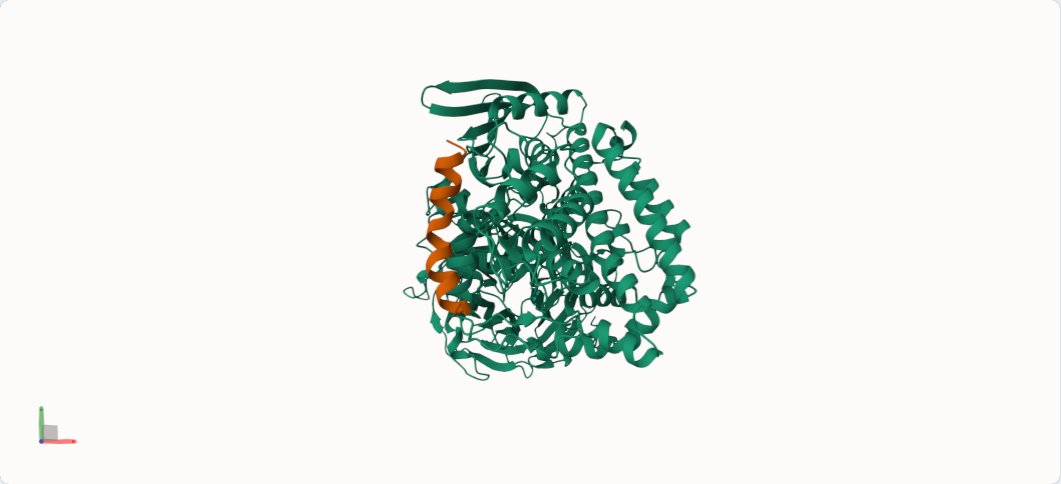
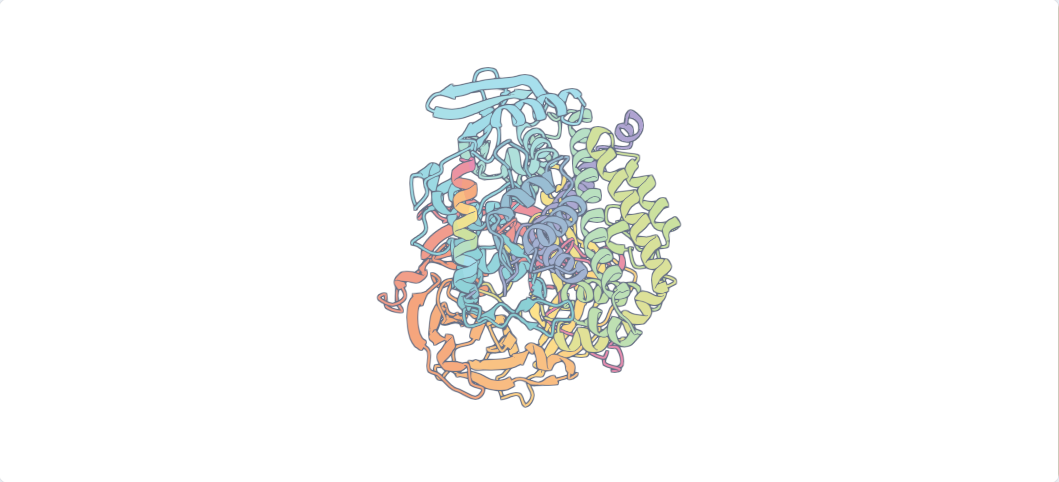
fix(structure): restore evidence access and Baker rendering

Changed region(s): [[0.3428, 0.1245, 0.6544, 0.8402], [0.9972, 0.0, 1.0, 0.9959], [0.0312, 0.8402, 0.0935, 0.9336]]

diff --git a/src/App.tsx b/src/App.tsx
@@ -55,6 +55,7 @@ import type {
 
 const nodeTypes = { stage: WorkflowNode, lane: LaneLabel }
 const connectionStorageKey = 'ampgent.data-service.base.v1'
+const selectedRunStorageKey = 'ampgent.observer.selected-run.v1'
 const defaultApiBase = import.meta.env.VITE_API_BASE ?? ''
 
 function normalizeApiBase(value: string) {
@@ -146,7 +147,7 @@ function readableDataError(cause: unknown, fallback: string) {
 
 function useRunData(enabled: boolean, apiBase: string) {
   const [runs, setRuns] = useState<RunListItem[]>([])
-  const [selectedId, setSelectedId] = useState<string | null>(null)
+  const [selectedId, setSelectedIdState] = useState<string | null>(() => window.localStorage.getItem(selectedRunStorageKey))
   const [detail, setDetail] = useState<RunDetail | null>(null)
   const [error, setError] = useState<string | null>(null)
   const [loading, setLoading] = useState(true)
@@ -157,7 +158,11 @@ function useRunData(enabled: boolean, apiBase: string) {
     if (!response.ok) throw new Error(`轮次列表读取失败：${response.status}`)
     const payload = await response.json() as RunListResponse
     setRuns(payload.runs)
-    setSelectedId((current) => current ?? payload.runs[0]?.id ?? null)
+    setSelectedIdState((current) => {
+      const next = current && payload.runs.some((run) => run.id === current) ? current : payload.runs[0]?.id ?? null
+      if (next) window.localStorage.setItem(selectedRunStorageKey, next)
+      return next
+    })
   }, [apiBase])
 
   const loadDetail = useCallback(async (runId: string, quiet = false) => {
@@ -210,6 +215,11 @@ function useRunData(enabled: boolean, apiBase: string) {
     }
   }, [loadDetail, loadRuns, selectedId])
 
+  const setSelectedId = useCallback((runId: string) => {
+    window.localStorage.setItem(selectedRunStorageKey, runId)
+    setSelectedIdState(runId)
+  }, [])
+
   return { runs, selectedId, setSelectedId, detail, error, loading, refreshing, retry, refresh: () => selectedId && loadDetail(selectedId, true) }
 }
 
@@ -236,15 +246,19 @@ function RunList({ runs, selectedId, onSelect }: { runs: RunListItem[]; selected
 function Sidebar({
   runs,
   selectedId,
+  structureRun,
   activeView,
   onView,
   onSelect,
+  onOpenStructureEvidence,
 }: {
   runs: RunListItem[]
   selectedId: string | null
+  structureRun: RunListItem | null
   activeView: 'overview' | 'analysis' | 'evidence'
   onView: (view: 'overview' | 'analysis' | 'evidence') => void
   onSelect: (id: string) => void
+  onOpenStructureEvidence: () => void
 }) {
   return (
     <aside className="sidebar">
@@ -259,7 +273,15 @@ function Sidebar({
       <div className="sidebar-sections">
         <button><span><SparkIcon icon="sequence" /></span><b>序列设计</b><small>生成模型与十一项指标</small></button>
         <button><span><GitBranch /></span><b>多靶点</b><small>原位与错误口袋对照</small></button>
-        <button title="Boltz 2预测复合物构象；Rosetta进行界面精修与评分。"><span><Atom /></span><b>结构证据</b><small>Boltz 2 与 Rosetta</small></button>
+        <button
+          className={`structure-evidence-link${structureRun?.id === selectedId && activeView === 'overview' ? ' active' : ''}`}
+          title="Boltz 2预测复合物构象；Rosetta进行界面精修与评分。"
+          disabled={!structureRun}
+          onClick={onOpenStructureEvidence}
+        >
+          <span><Atom /></span><b>结构证据</b>
+          <small>{structureRun ? `最近轮次 · ${structureRun.structure_record_count.toLocaleString()} 条记录` : '数据库中尚无结构记录'}</small>
+        </button>
         <button><span><ShieldCheck /></span><b>科学评审</b><small>证据来源追踪</small></button>
       </div>
     </aside>
@@ -744,12 +766,13 @@ export default function App() {
   const [activeView, setActiveView] = useState<'overview' | 'analysis' | 'evidence'>('analysis')
   const [apiBase, setApiBase] = useState(readApiBase)
   const [connectionOpen, setConnectionOpen] = useState(false)
-  const data = useRunData(activeView === 'overview', apiBase)
+  const data = useRunData(true, apiBase)
   const [selectedStage, setSelectedStage] = useState<string | null>(null)
   const [selectedEdge, setSelectedEdge] = useState<GraphEdgeDetail | null>(null)
   const [selectionMode, setSelectionMode] = useState(false)
   const [analysisSelection, setAnalysisSelection] = useState<string[]>([])
   const [analysisSnapshot, setAnalysisSnapshot] = useState<AnalysisSnapshot | null>(null)
+  const structureRun = useMemo(() => data.runs.find((run) => run.structure_record_count > 0) ?? null, [data.runs])
   useEffect(() => {
     let cancelled = false
     const liveAnalyticsEnabled = import.meta.env.VITE_ANALYTICS_API_ENABLED === 'true'
@@ -769,9 +792,19 @@ export default function App() {
         <Sidebar
           runs={data.runs}
           selectedId={data.selectedId}
+          structureRun={structureRun}
           activeView={activeView}
           onView={(view) => { setActiveView(view); setSelectedStage(null); setSelectedEdge(null) }}
           onSelect={(id) => { data.setSelectedId(id); setSelectedStage(null); setSelectedEdge(null); setAnalysisSelection([]); setSelectionMode(false) }}
+          onOpenStructureEvidence={() => {
+            if (!structureRun) return
+            data.setSelectedId(structureRun.id)
+            setActiveView('overview')
+            setSelectedStage('boltz')
+            setSelectedEdge(null)
+            setAnalysisSelection([])
+            setSelectionMode(false)
+          }}
         />
         {activeView === 'analysis' ? (
           <AnalysisDashboard detail={data.detail} seedNodeIds={analysisSelection} apiBase={apiBase} />

diff --git a/src/MoleculeViewer.tsx b/src/MoleculeViewer.tsx
@@ -1,5 +1,6 @@
 import { useEffect, useRef, useState } from 'react'
 import 'molstar/lib/mol-plugin-ui/skin/light.scss'
+import { Color } from 'molstar/lib/mol-util/color/index'
 import type { ViewerArtifact } from './types'
 
 interface Props {
@@ -7,7 +8,7 @@ interface Props {
   compact?: boolean
   autoRotate?: boolean
   representation?: 'cartoon' | 'atomic' | 'surface'
-  colorTheme?: 'chain-id' | 'hydrophobicity' | 'element-symbol'
+  colorTheme?: 'baker-spectrum' | 'chain-id' | 'hydrophobicity' | 'element-symbol'
 }
 
 const representationPresets = {
@@ -16,7 +17,12 @@ const representationPresets = {
   surface: 'molecular-surface',
 } as const
 
-export function MoleculeViewer({ artifact, compact = false, autoRotate = false, representation = 'cartoon', colorTheme = 'chain-id' }: Props) {
+const bakerSpectrum = {
+  kind: 'interpolate' as const,
+  colors: [0xb0a3d1, 0x8bd0d5, 0xa8e0ee, 0xc5e1a3, 0xffe38b, 0xf5a37d, 0xe88db2].map(Color),
+}
+
+export function MoleculeViewer({ artifact, compact = false, autoRotate = false, representation = 'cartoon', colorTheme = 'baker-spectrum' }: Props) {
   const host = useRef<HTMLDivElement>(null)
   // Mol* is intentionally loaded only when the structure inspector is opened.
   const pluginRef = useRef<any>(null)
@@ -24,6 +30,11 @@ export function MoleculeViewer({ artifact, compact = false, autoRotate = false, 
   const [state, setState] = useState<'idle' | 'loading' | 'ready' | 'error'>('idle')
 
   useEffect(() => {
+    if (!artifact) {
+      setPluginReady(false)
+      setState('idle')
+      return
+    }
     if (!host.current || pluginRef.current) return
     const target = host.current
     let disposed = false
@@ -52,6 +63,29 @@ export function MoleculeViewer({ artifact, compact = false, autoRotate = false, 
         return
       }
       pluginRef.current = plugin
+      plugin.canvas3d?.setProps({
+        camera: { mode: 'orthographic', helper: { axes: { name: 'off', params: {} } } },
+        cameraFog: { name: 'off', params: {} },
+        renderer: {
+          backgroundColor: Color(0xffffff),
+          ambientColor: Color(0xffffff),
+          ambientIntensity: 1,
+          light: [],
+          exposure: 1,
+          celSteps: 0,
+        },
+        postprocessing: {
+          enabled: true,
+          occlusion: { name: 'off', params: {} },
+          shadow: { name: 'off', params: {} },
+          outline: { name: 'on', params: { scale: 1, threshold: 0.1, color: Color(0x667085), includeTransparent: true } },
+          dof: { name: 'off', params: {} },
+          antialiasing: { name: 'smaa', params: { edgeThreshold: 0.1, maxSearchSteps: 32 } },
+          sharpening: { name: 'off', params: {} },
+          bloom: { name: 'off', params: {} },
+        },
+        illumination: { enabled: false, shadowEnable: false },
+      })
       setPluginReady(true)
     })
     return () => {
@@ -59,7 +93,7 @@ export function MoleculeViewer({ artifact, compact = false, autoRotate = false, 
       pluginRef.current?.dispose()
       pluginRef.current = null
     }
-  }, [])
+  }, [!!artifact])
 
   useEffect(() => {
     const plugin = pluginRef.current
@@ -78,11 +112,16 @@ export function MoleculeViewer({ artifact, compact = false, autoRotate = false, 
         )
         const format = artifact.media_type.includes('cif') ? 'mmcif' : 'pdb'
         const trajectory = await plugin.builders.structure.parseTrajectory(data, format)
+        const resolvedColorTheme = colorTheme === 'baker-spectrum' ? 'sequence-id' : colorTheme
         await plugin.builders.structure.hierarchy.applyPreset(trajectory, 'default', {
           representationPreset: representationPresets[representation],
           representationPresetParams: {
-            theme: { globalName: colorTheme },
-            quality: 'auto',
+            theme: {
+              globalName: resolvedColorTheme,
+              globalColorParams: colorTheme === 'baker-spectrum' ? { list: bakerSpectrum } : undefined,
+            },
+            quality: compact ? 'medium' : 'high',
+            ignoreLight: true,
           },
         })
         if (!cancelled) setState('ready')
@@ -97,7 +136,7 @@ export function MoleculeViewer({ artifact, compact = false, autoRotate = false, 
     return () => {
       cancelled = true
     }
-  }, [artifact, colorTheme, pluginReady, representation])
+  }, [artifact?.artifact_url, artifact?.media_type, colorTheme, pluginReady, representation])
 
   useEffect(() => {
     const plugin = pluginRef.current
@@ -114,8 +153,8 @@ export function MoleculeViewer({ artifact, compact = false, autoRotate = false, 
       {artifact && state === 'loading' && <div className="viewer-state">正在验证并载入结构…</div>}
       {artifact && state === 'error' && <div className="viewer-state viewer-error">结构载入失败</div>}
       {artifact && state === 'ready' && !compact && (
-        <div className="viewer-tag" title="Mol*是用于交互审视生物大分子三维结构的可视化工具。">
-          <span className="live-dot" /> Mol* · {artifact.lane === 'native' ? '原位' : '错误口袋对照'} · 随机种子 {artifact.seed}
+        <div className="viewer-tag" title="Baker 风格按残基序号使用七色渐变，并关闭高光、雾化和阴影。">
+          <span className="live-dot" /> Mol* · Baker 序列谱 · {artifact.lane === 'native' ? '原位' : '错误口袋对照'} · 随机种子 {artifact.seed}
         </div>
       )}
     </div>

diff --git a/src/styles.css b/src/styles.css
@@ -106,6 +106,11 @@ button:focus-visible { outline: 2px solid #315be8; outline-offset: 2px; }
 .sidebar-sections svg { width: 19px; }
 .sidebar-sections b { align-self: end; font-size: 13px; font-weight: 650; }
 .sidebar-sections small { align-self: start; color: #949cad; font-size: 10px; margin-top: 3px; }
+.sidebar-sections button.structure-evidence-link { border-radius: 10px; cursor: pointer; }
+.sidebar-sections button.structure-evidence-link:hover { background: #f0f3f8; }
+.sidebar-sections button.structure-evidence-link.active { color: #244f9e; background: #eaf0fb; }
+.sidebar-sections button.structure-evidence-link.active > span { color: #315fbd; background: #f7faff; }
+.sidebar-sections button.structure-evidence-link:disabled { opacity: .55; cursor: not-allowed; }
 
 .main-canvas { flex: 1; min-width: 0; position: relative; display: flex; flex-direction: column; background: #fff; }
 .canvas-header { height: 148px; flex: 0 0 148px; padding: 30px 46px 20px; display: flex; justify-content: space-between; align-items: flex-start; position: relative; z-index: 3; }
@@ -198,7 +203,7 @@ button:focus-visible { outline: 2px solid #315be8; outline-offset: 2px; }
 .progress-track i { display: block; height: 100%; background: #202630; border-radius: inherit; }
 .node-running .progress-track i { background: #1ca9c5; }
 .node-stopped .progress-track i { background: #a6adba; }
-.mini-molstar-shell { height: 94px; margin-top: 9px; border-radius: 8px; border-color: #e1e6ee; background: radial-gradient(circle at 50% 45%, #f7faf9, #eef3f4 78%); pointer-events: none; }
+.mini-molstar-shell { height: 94px; margin-top: 9px; border-radius: 8px; border-color: #e1e6ee; background: #fff; pointer-events: none; }
 .mini-molstar-shell .msp-viewport-controls, .mini-molstar-shell .msp-logo, .mini-molstar-shell .msp-toast-container { display: none !important; }
 .mini-molstar-shell .viewer-state, .mini-molstar-shell .viewer-empty { font-size: 8px; color: #8b95a5; }
 .kind-structure .node-facts { min-height: 42px; padding-top: 7px; }
@@ -311,12 +316,12 @@ button:focus-visible { outline: 2px solid #315be8; outline-offset: 2px; }
 .inference-note { margin: 12px 0 0; padding: 10px 11px; display: flex; gap: 8px; color: #786e8e; background: #f6f4f9; border-radius: 7px; font-size: 10px; line-height: 1.55; }
 .inference-note svg { width: 14px; flex: 0 0 auto; }
 .viewer-section { padding: 15px; border-bottom: 1px solid #e8ebf0; }
-.molstar-shell { height: 290px; border-radius: 11px; overflow: hidden; background: radial-gradient(circle at 50% 42%, #15223e, #0b1020 70%); position: relative; border: 1px solid #dce1e9; }
+.molstar-shell { height: 290px; border-radius: 11px; overflow: hidden; background: #fff; position: relative; border: 1px solid #dce1e9; }
 .molstar-host { position: absolute; inset: 0; }
 .molstar-host .msp-plugin { position: absolute !important; inset: 0 !important; }
-.viewer-empty, .viewer-state { position: absolute; inset: 0; display: grid; place-items: center; color: #aab6cc; font-size: 10px; pointer-events: none; }
-.viewer-error { color: #ef9aa5; }
-.viewer-tag { position: absolute; top: 10px; left: 10px; height: 24px; display: flex; align-items: center; gap: 7px; color: #dce7fb; background: rgba(9,15,29,.72); border: 1px solid rgba(186,202,228,.18); border-radius: 6px; padding: 0 8px; font-size: 8px; backdrop-filter: blur(8px); pointer-events: none; }
+.viewer-empty, .viewer-state { position: absolute; inset: 0; display: grid; place-items: center; color: #8f99aa; background: #fff; font-size: 10px; pointer-events: none; }
+.viewer-error { color: #c96975; }
+.viewer-tag { position: absolute; top: 10px; left: 10px; height: 24px; display: flex; align-items: center; gap: 7px; color: #526078; background: rgba(255,255,255,.86); border: 1px solid rgba(197,205,218,.72); border-radius: 6px; padding: 0 8px; font-size: 8px; backdrop-filter: blur(8px); pointer-events: none; }
 .structure-caption { padding: 10px 3px 0; display: grid; gap: 5px; }
 .structure-caption code { font: 500 10px "DM Mono", monospace; color: #314c9f; overflow-wrap: anywhere; }
 .structure-caption span { font-size: 10px; color: #7f899a; }

diff --git a/src/analysis/CandidateCaseWorkbench.tsx b/src/analysis/CandidateCaseWorkbench.tsx
@@ -342,7 +342,7 @@ export function CandidateCaseWorkbench({ apiBase = '' }: { apiBase?: string }) {
   const [structureSource, setStructureSource] = useState<'boltz' | 'rosetta'>('rosetta')
   const [seedIndex, setSeedIndex] = useState(0)
   const [representation, setRepresentation] = useState<'cartoon' | 'atomic' | 'surface'>('cartoon')
-  const [colorTheme, setColorTheme] = useState<'chain-id' | 'hydrophobicity' | 'element-symbol'>('chain-id')
+  const [colorTheme, setColorTheme] = useState<'baker-spectrum' | 'chain-id' | 'hydrophobicity' | 'element-symbol'>('baker-spectrum')
   const [autoRotate, setAutoRotate] = useState(false)
   const [showResidues, setShowResidues] = useState(true)
   const [copied, setCopied] = useState(false)
@@ -417,7 +417,7 @@ export function CandidateCaseWorkbench({ apiBase = '' }: { apiBase?: string }) {
           <div className="case-structure-controls">
             <label><span>结构来源</span><div><button className={structureSource === 'boltz' ? 'active' : ''} onClick={() => setStructureSource('boltz')}><Term>Boltz 2</Term></button><button className={structureSource === 'rosetta' ? 'active' : ''} onClick={() => setStructureSource('rosetta')}><Term>Rosetta</Term></button></div></label>
             <label><span>表示方式</span><div><button className={representation === 'cartoon' ? 'active' : ''} onClick={() => setRepresentation('cartoon')}>卡通</button><button className={representation === 'atomic' ? 'active' : ''} onClick={() => setRepresentation('atomic')}>原子</button><button className={representation === 'surface' ? 'active' : ''} onClick={() => setRepresentation('surface')}>表面</button></div></label>
-            <label><span>着色</span><div><button className={colorTheme === 'chain-id' ? 'active' : ''} onClick={() => setColorTheme('chain-id')}>分子链</button><button className={colorTheme === 'hydrophobicity' ? 'active' : ''} onClick={() => setColorTheme('hydrophobicity')}>疏水性</button><button className={colorTheme === 'element-symbol' ? 'active' : ''} onClick={() => setColorTheme('element-symbol')}>元素</button></div></label>
+            <label><span>着色</span><div><button title="Baker 风格按残基序号使用七色渐变。" className={colorTheme === 'baker-spectrum' ? 'active' : ''} onClick={() => setColorTheme('baker-spectrum')}>序列谱</button><button className={colorTheme === 'chain-id' ? 'active' : ''} onClick={() => setColorTheme('chain-id')}>分子链</button><button className={colorTheme === 'hydrophobicity' ? 'active' : ''} onClick={() => setColorTheme('hydrophobicity')}>疏水性</button><button className={colorTheme === 'element-symbol' ? 'active' : ''} onClick={() => setColorTheme('element-symbol')}>元素</button></div></label>
             <label><span>视图</span><div><button className={autoRotate ? 'active' : ''} disabled={viewMode === 'static'} onClick={() => setAutoRotate((value) => !value)}><Rotate3D />慢速旋转</button><button className={showResidues ? 'active' : ''} onClick={() => setShowResidues((value) => !value)}><Layers3 />口袋残基</button></div></label>
           </div>
           <div className="case-structure-stage">
